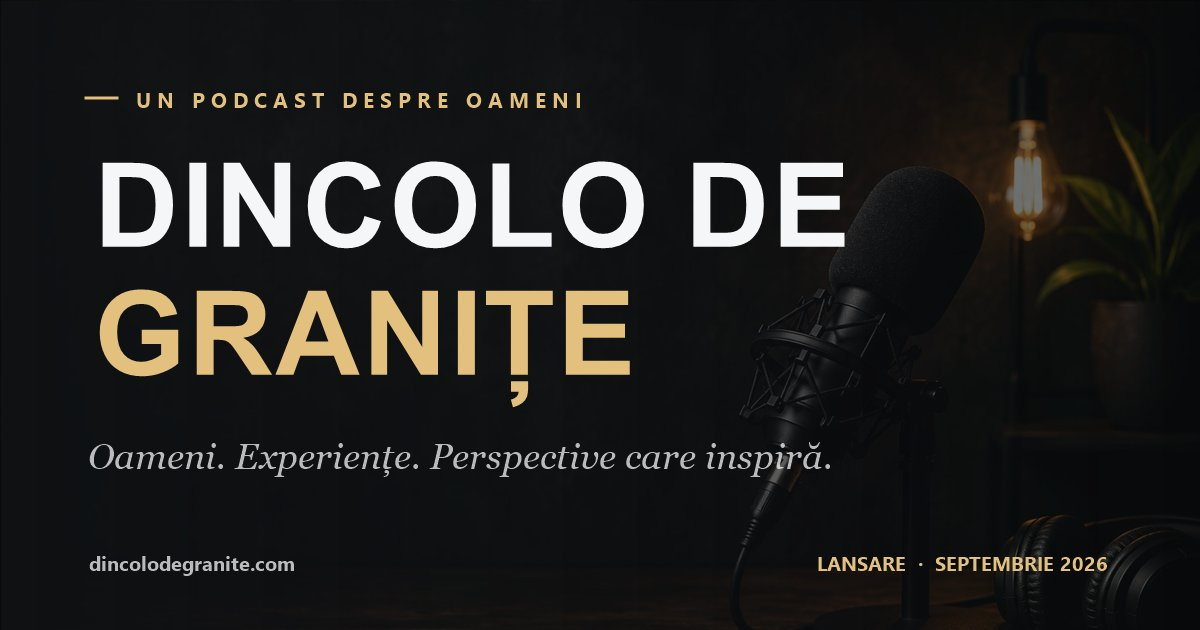
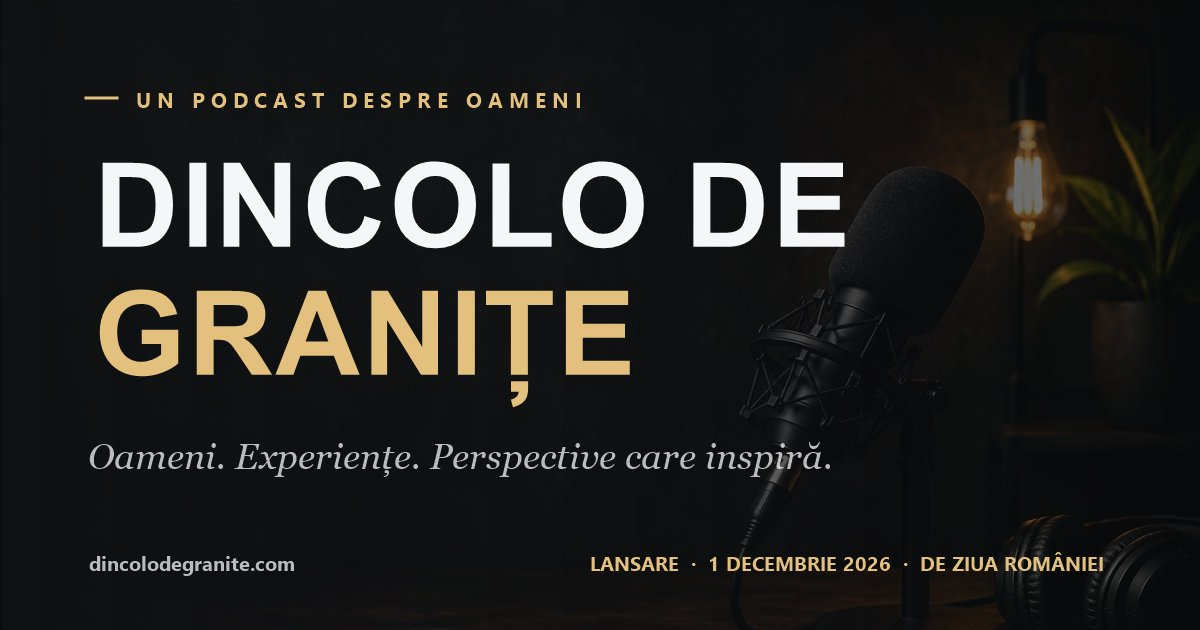
LANSAREA MUTATA PE 1 DECEMBRIE 2026 — DE ZIUA NATIONALA A ROMANIEI
- Toate mentiunile de septembrie 2026 actualizate pe cele 10 pagini (card lansare episoade, formulare newsletter, timeline si FAQ despre, JSON-LD, parteneriate, admin placeholder)
- Accente de Ziua Nationala acolo unde conteaza: cardul de lansare (PRIMUL EPISOD — 1 DECEMBRIE 2026, de Ziua Nationala a Romaniei), timeline-ul gazdei, cardul social contact, parteneriate
- Tabloul: DEC 2026 pe toate rutele
- Countdown: fallback 2026-12-01T00:00:00+00:00 (miezul noptii, ora Londrei — GMT in decembrie); site_settings next_episode_date actualizat in DB — countdown-ul live numara 119 zile spre 1 Decembrie 2026
- despre_spec_lansare in DB: 1 Decembrie 2026
- Media kit v13: lansarea + coordonatele (LANSARE · DE ZIUA ROMANIEI) + FAQ actualizate
- og-banner regenerat: LANSARE · 1 DECEMBRIE 2026 · DE ZIUA ROMANIEI

Changed region(s): [[0.4933, 0.8746, 0.925, 0.9048]]

diff --git a/site/index.html b/site/index.html
@@ -1234,7 +1234,7 @@ document.addEventListener('pointerout', function(e){
         <span data-ep-title="1" class="brd-title" style="font:600 15px var(--font-body);color:#f5f6f7;overflow:hidden;text-overflow:ellipsis;white-space:nowrap" data-i18n="ep_ph1">Construirea unei vieți de la zero</span>
         <span data-ep-desc="1" class="brd-desc" style="font:400 12.5px var(--font-body);color:rgba(245,246,247,.55);overflow:hidden;text-overflow:ellipsis;white-space:nowrap" data-i18n="ep1_desc">Cum se construiește o afacere de la zero într-o țară străină.</span>
       </span>
-      <span class="brd-time" style="flex:none;width:78px;font:600 10.5px 'Courier New',monospace;letter-spacing:.08em;color:rgba(227,192,125,.75);white-space:nowrap">SEP 2026</span>
+      <span class="brd-time" style="flex:none;width:78px;font:600 10.5px 'Courier New',monospace;letter-spacing:.08em;color:rgba(227,192,125,.75);white-space:nowrap">DEC 2026</span>
       <span class="brd-break"></span>
       <span class="brd-status-cell" style="flex:none;width:112px;perspective:400px">
         <span data-ep-status="1" style="display:inline-block;padding:6px 14px;border-radius:8px;border:1px solid rgba(201,162,90,.45);background:rgba(201,162,90,.1);font:700 10px var(--font-body);letter-spacing:.14em;color:var(--accent-light);animation:boardFlip 7s ease-in-out infinite;animation-delay:1s" data-i18n="board_in_studio">FILMARE PROGRAMATĂ</span>
@@ -1254,7 +1254,7 @@ document.addEventListener('pointerout', function(e){
         <span data-ep-title="2" class="brd-title" style="font:600 15px var(--font-body);color:#f5f6f7;overflow:hidden;text-overflow:ellipsis;white-space:nowrap" data-i18n="ep_ph2">Drumul din spatele profesiei</span>
         <span data-ep-desc="2" class="brd-desc" style="font:400 12.5px var(--font-body);color:rgba(245,246,247,.55);overflow:hidden;text-overflow:ellipsis;white-space:nowrap" data-i18n="ep2_desc">Drumul unui profesionist român spre vârful industriei lui.</span>
       </span>
-      <span class="brd-time" style="flex:none;width:78px;font:600 10.5px 'Courier New',monospace;letter-spacing:.08em;color:rgba(227,192,125,.75);white-space:nowrap">SEP 2026</span>
+      <span class="brd-time" style="flex:none;width:78px;font:600 10.5px 'Courier New',monospace;letter-spacing:.08em;color:rgba(227,192,125,.75);white-space:nowrap">DEC 2026</span>
       <span class="brd-break"></span>
       <span class="brd-status-cell" style="flex:none;width:112px;perspective:400px">
         <span data-ep-status="2" style="display:inline-block;padding:6px 14px;border-radius:8px;border:1px solid rgba(201,162,90,.45);background:rgba(201,162,90,.1);font:700 10px var(--font-body);letter-spacing:.14em;color:var(--accent-light);animation:boardFlip 7s ease-in-out infinite;animation-delay:3.4s" data-i18n="coming_soon">ÎN PREGĂTIRE</span>
@@ -1274,7 +1274,7 @@ document.addEventListener('pointerout', function(e){
         <span data-ep-title="3" class="brd-title" style="font:600 15px var(--font-body);color:#f5f6f7;overflow:hidden;text-overflow:ellipsis;white-space:nowrap" data-i18n="ep_ph3">Alegeri, risc și reinventare</span>
         <span data-ep-desc="3" class="brd-desc" style="font:400 12.5px var(--font-body);color:rgba(245,246,247,.55);overflow:hidden;text-overflow:ellipsis;white-space:nowrap" data-i18n="ep3_desc">O poveste neobișnuită despre risc, muncă și noroc provocat.</span>
       </span>
-      <span class="brd-time" style="flex:none;width:78px;font:600 10.5px 'Courier New',monospace;letter-spacing:.08em;color:rgba(227,192,125,.75);white-space:nowrap">SEP 2026</span>
+      <span class="brd-time" style="flex:none;width:78px;font:600 10.5px 'Courier New',monospace;letter-spacing:.08em;color:rgba(227,192,125,.75);white-space:nowrap">DEC 2026</span>
       <span class="brd-break"></span>
       <span class="brd-status-cell" style="flex:none;width:112px;perspective:400px">
         <span data-ep-status="3" style="display:inline-block;padding:6px 14px;border-radius:8px;border:1px solid rgba(201,162,90,.45);background:rgba(201,162,90,.1);font:700 10px var(--font-body);letter-spacing:.14em;color:var(--accent-light);animation:boardFlip 7s ease-in-out infinite;animation-delay:5.8s" data-i18n="coming_soon">ÎN PREGĂTIRE</span>

diff --git a/site/despre.html b/site/despre.html
@@ -43,7 +43,7 @@
 {"@type":"Question","name":"Cât durează filmarea unui episod?","acceptedAnswer":{"@type":"Answer","text":"Între 60 și 90 de minute: o conversație relaxată, fără scenariu rigid și fără grabă."}},
 {"@type":"Question","name":"Costă ceva participarea?","acceptedAnswer":{"@type":"Answer","text":"Nu. Participarea ca invitat este gratuită."}},
 {"@type":"Question","name":"În ce limbă sunt episoadele?","acceptedAnswer":{"@type":"Answer","text":"În limba română, iar toate episoadele au subtitrare."}},
-{"@type":"Question","name":"Când se lansează primele episoade?","acceptedAnswer":{"@type":"Answer","text":"În septembrie 2026, pe YouTube."}},
+{"@type":"Question","name":"Când se lansează primele episoade?","acceptedAnswer":{"@type":"Answer","text":"Pe 1 decembrie 2026, de Ziua Națională a României, pe YouTube."}},
 {"@type":"Question","name":"Când apare episodul meu după filmare?","acceptedAnswer":{"@type":"Answer","text":"Nu imediat. Episoadele se înregistrează în avans și se publică programat, în serie, pentru continuitate. Invitatul primește data exactă înainte de lansare."}}
 ]}</script>
 <script defer src="/_vercel/insights/script.js"></script>
@@ -285,7 +285,7 @@
       </div>
       <div class="tl-item rv">
         <div class="tl-l">LANSAREA</div>
-        <div class="tl-t">Septembrie 2026</div>
+        <div class="tl-t">1 Decembrie 2026 — de Ziua României</div>
         <p class="tl-p"><a href="episoade.html">Primele episoade</a>, în studio și pe Zoom, cu <a href="invitati.html">români din toată lumea</a>.</p>
       </div>
     </div>
@@ -503,7 +503,7 @@
           <div class="spec-cell">
             <span class="icon-chip" style="width:28px;height:28px"><svg width="14" height="14" viewBox="0 0 24 24" fill="none" stroke="currentColor" stroke-width="1.8" stroke-linecap="round" stroke-linejoin="round"><rect x="3" y="5" width="18" height="16" rx="3"></rect><path d="M3 10h18"></path><path d="M8 3v4"></path><path d="M16 3v4"></path></svg></span>
             <div class="spec-l">LANSARE</div>
-            <div class="spec-v" data-set="despre_spec_lansare">Septembrie 2026</div>
+            <div class="spec-v" data-set="despre_spec_lansare">1 Decembrie 2026</div>
           </div>
         </div>
       </div>
@@ -562,7 +562,7 @@
       </details>
       <details class="faq-i">
         <summary>Când se lansează primele episoade?</summary>
-        <p>În septembrie 2026, pe YouTube. Până atunci poți urmări <a href="episoade.html">pagina de episoade</a> sau te poți abona la newsletter de pe prima pagină.</p>
+        <p>Pe 1 decembrie 2026, de Ziua Națională a României, pe YouTube. Până atunci poți urmări <a href="episoade.html">pagina de episoade</a> sau te poți abona la newsletter de pe prima pagină.</p>
       </details>
       <details class="faq-i">
         <summary>Când apare episodul meu după filmare?</summary>
@@ -607,7 +607,7 @@
       <div style="position:relative;display:flex;align-items:center;justify-content:space-between;gap:20px;flex-wrap:wrap">
         <div style="max-width:440px">
           <div style="font:var(--head-weight) 24px var(--font-head);letter-spacing:.04em;color:#f5f6f7;margin-bottom:5px">PRIMEȘTE FIECARE <span class="gold-last">EPISOD</span></div>
-          <p class="muted" style="margin:0;font-size:13.5px;color:rgba(245,246,247,.62)">Lasă-ne adresa ta de email și te anunțăm imediat ce publicăm un nou episod. Primul episod apare în septembrie 2026.</p>
+          <p class="muted" style="margin:0;font-size:13.5px;color:rgba(245,246,247,.62)">Lasă-ne adresa ta de email și te anunțăm imediat ce publicăm un nou episod. Primul episod apare pe 1 decembrie 2026.</p>
         </div>
         <form data-nl-form novalidate style="flex:1 1 300px;max-width:440px">
           <div class="nlx-cap">

diff --git a/site/episoade.html b/site/episoade.html
@@ -154,8 +154,8 @@
     </div>
 
     <div id="ep-empty" class="gcard" style="display:none;text-align:center;padding:clamp(36px,7vw,60px)">
-      <div style="font:var(--head-weight) 26px var(--font-head);letter-spacing:.08em;color:var(--accent-light);margin-bottom:8px">PRIMUL EPISOD — SEPTEMBRIE 2026</div>
-      <p style="max-width:52ch;margin:0 auto 20px">Primul episod este în pregătire. Urmărește canalul de YouTube sau lasă-ți adresa de email mai jos, iar noi te anunțăm imediat ce este publicat.</p>
+      <div style="font:var(--head-weight) 26px var(--font-head);letter-spacing:.08em;color:var(--accent-light);margin-bottom:8px">PRIMUL EPISOD — 1 DECEMBRIE 2026</div>
+      <p style="max-width:52ch;margin:0 auto 20px">Primul episod se lansează pe 1 decembrie 2026, de Ziua Națională a României. Urmărește canalul de YouTube sau lasă-ți adresa de email mai jos, iar noi te anunțăm imediat ce este publicat.</p>
       <div style="display:flex;gap:10px;justify-content:center;flex-wrap:wrap">
         <a class="btn btn-gold" href="https://www.youtube.com/@dincolo.de.granite?sub_confirmation=1" target="_blank" rel="noopener">Abonează-te pe YouTube</a>
         <a class="btn btn-ghost" href="#abonare">Anunță-mă la lansare</a>
@@ -220,7 +220,7 @@
       <div style="position:relative;display:flex;align-items:center;justify-content:space-between;gap:20px;flex-wrap:wrap">
         <div id="abonare" style="max-width:440px;scroll-margin-top:132px">
           <div style="font:var(--head-weight) 24px var(--font-head);letter-spacing:.04em;color:#f5f6f7;margin-bottom:5px">PRIMEȘTE FIECARE <span class="gold-last">EPISOD</span></div>
-          <p class="muted" style="margin:0;font-size:13.5px;color:rgba(245,246,247,.62)">Lasă-ne adresa ta de email și te anunțăm imediat ce publicăm un nou episod. Primul episod apare în septembrie 2026.</p>
+          <p class="muted" style="margin:0;font-size:13.5px;color:rgba(245,246,247,.62)">Lasă-ne adresa ta de email și te anunțăm imediat ce publicăm un nou episod. Primul episod apare pe 1 decembrie 2026.</p>
         </div>
         <form data-nl-form novalidate style="flex:1 1 300px;max-width:440px">
           <div class="nlx-cap">

diff --git a/site/parteneriate.html b/site/parteneriate.html
@@ -179,7 +179,7 @@
     <div class="gcard ovh rv" style="margin-top:18px;position:relative">
       <div class="dsp-glow"></div>
       <div style="position:relative">
-        <p style="margin:0 0 16px;font-size:15px;line-height:1.7;max-width:74ch">Vorbim cu români din România și din întreaga lume, prin interviuri documentate în două formate: portret și expertiză. Lansăm în septembrie 2026, iar datele de audiență vor fi comunicate transparent, pe măsură ce devin disponibile.</p>
+        <p style="margin:0 0 16px;font-size:15px;line-height:1.7;max-width:74ch">Vorbim cu români din România și din întreaga lume, prin interviuri documentate în două formate: portret și expertiză. Lansăm pe 1 decembrie 2026, de Ziua Națională a României, iar datele de audiență vor fi comunicate transparent, pe măsură ce devin disponibile.</p>
         <div style="display:flex;gap:8px;flex-wrap:wrap">
         <span style="padding:7px 15px;border-radius:999px;border:1px solid rgba(201,162,90,.3);background:rgba(201,162,90,.07);font:600 13px var(--font-body);letter-spacing:.03em;color:rgba(245,246,247,.82);white-space:nowrap">Medicină și sănătate</span>
         <span style="padding:7px 15px;border-radius:999px;border:1px solid rgba(201,162,90,.3);background:rgba(201,162,90,.07);font:600 13px var(--font-body);letter-spacing:.03em;color:rgba(245,246,247,.82);white-space:nowrap">Psihologie</span>
@@ -300,7 +300,7 @@
       </details>
       <details class="faq-i">
         <summary>Aveți deja cifre de audiență?</summary>
-        <p>Lansăm în septembrie 2026, iar datele de audiență vor fi comunicate transparent, pe măsură ce devin disponibile — direct în media kit.</p>
+        <p>Lansăm în decembrie 2026, iar datele de audiență vor fi comunicate transparent, pe măsură ce devin disponibile — direct în media kit.</p>
       </details>
       <details class="faq-i">
         <summary>Cum începe o colaborare?</summary>

diff --git a/site/contact.html b/site/contact.html
@@ -182,7 +182,7 @@
           <a href="#" data-social="social_apple" target="_blank" rel="noopener" class="btn btn-ghost" style="display:none">Apple Podcasts</a>
           <a href="#" data-social="social_spotify" target="_blank" rel="noopener" class="btn btn-ghost" style="display:none">Spotify</a>
         </div>
-        <p class="muted" style="margin:0;font-size:13.5px">Primul episod apare în septembrie 2026. Urmărește-ne și fii printre primii care îl descoperă.</p>
+        <p class="muted" style="margin:0;font-size:13.5px">Primul episod apare pe 1 decembrie 2026, de Ziua Națională a României. Urmărește-ne și fii printre primii care îl descoperă.</p>
       </div>
     </div>
   </section>
@@ -290,7 +290,7 @@
       <div style="position:relative;display:flex;align-items:center;justify-content:space-between;gap:20px;flex-wrap:wrap">
         <div style="max-width:440px">
           <div style="font:var(--head-weight) 21px var(--font-head);letter-spacing:.04em;color:#f5f6f7;margin-bottom:5px">PRIMEȘTE FIECARE <span class="gold-last">EPISOD</span></div>
-          <p class="muted" style="margin:0;font-size:13.5px;color:rgba(245,246,247,.62)">Lasă-ne adresa ta de email și te anunțăm imediat ce publicăm un nou episod. Primul episod apare în septembrie 2026.</p>
+          <p class="muted" style="margin:0;font-size:13.5px;color:rgba(245,246,247,.62)">Lasă-ne adresa ta de email și te anunțăm imediat ce publicăm un nou episod. Primul episod apare pe 1 decembrie 2026.</p>
         </div>
         <form data-nl-form novalidate style="flex:1 1 300px;max-width:440px">
           <div class="nlx-cap">

diff --git a/site/admin.html b/site/admin.html
@@ -257,7 +257,7 @@
           <label class="muted" style="font-size:12px">CAMERE<input id="set-despre-spec-camere" type="text" placeholder="Canon Cinema, în studio propriu" style="margin-top:5px"></label>
           <label class="muted" style="font-size:12px">DE ORIUNDE<input id="set-despre-spec-oriunde" type="text" placeholder="Invitați din toată lumea, pe Zoom" style="margin-top:5px"></label>
           <label class="muted" style="font-size:12px">LIMBA<input id="set-despre-spec-limba" type="text" placeholder="Română și engleză, cu subtitrare" style="margin-top:5px"></label>
-          <label class="muted" style="font-size:12px">LANSARE<input id="set-despre-spec-lansare" type="text" placeholder="Septembrie 2026" style="margin-top:5px"></label>
+          <label class="muted" style="font-size:12px">LANSARE<input id="set-despre-spec-lansare" type="text" placeholder="1 Decembrie 2026" style="margin-top:5px"></label>
         </div>
       </div>
       <div style="display:flex;align-items:center;gap:12px;margin-top:20px">

diff --git a/site/invitati.html b/site/invitati.html
@@ -306,7 +306,7 @@
       <div style="position:relative;display:flex;align-items:center;justify-content:space-between;gap:20px;flex-wrap:wrap">
         <div style="max-width:440px">
           <div style="font:var(--head-weight) 24px var(--font-head);letter-spacing:.04em;color:#f5f6f7;margin-bottom:5px">PRIMEȘTE FIECARE <span class="gold-last">EPISOD</span></div>
-          <p class="muted" style="margin:0;font-size:13.5px;color:rgba(245,246,247,.62)">Lasă-ne adresa ta de email și te anunțăm imediat ce publicăm un nou episod. Primul episod apare în septembrie 2026.</p>
+          <p class="muted" style="margin:0;font-size:13.5px;color:rgba(245,246,247,.62)">Lasă-ne adresa ta de email și te anunțăm imediat ce publicăm un nou episod. Primul episod apare pe 1 decembrie 2026.</p>
         </div>
         <form data-nl-form novalidate style="flex:1 1 300px;max-width:440px">
           <div class="nlx-cap">

diff --git a/site/oameni.html b/site/oameni.html
@@ -175,7 +175,7 @@
       <div style="position:relative;display:flex;align-items:center;justify-content:space-between;gap:20px;flex-wrap:wrap">
         <div style="max-width:440px">
           <div style="font:var(--head-weight) 24px var(--font-head);letter-spacing:.04em;color:#f5f6f7;margin-bottom:5px">PRIMEȘTE FIECARE <span class="gold-last">EPISOD</span></div>
-          <p class="muted" style="margin:0;font-size:13.5px;color:rgba(245,246,247,.62)">Lasă-ne adresa ta de email și te anunțăm imediat ce publicăm un nou episod. Primul episod apare în septembrie 2026.</p>
+          <p class="muted" style="margin:0;font-size:13.5px;color:rgba(245,246,247,.62)">Lasă-ne adresa ta de email și te anunțăm imediat ce publicăm un nou episod. Primul episod apare pe 1 decembrie 2026.</p>
         </div>
         <form data-nl-form novalidate style="flex:1 1 300px;max-width:440px">
           <div class="nlx-cap">

diff --git a/site/enhance.js b/site/enhance.js
@@ -623,7 +623,7 @@ function initMap(){
 /* ── Countdown ─────────────────────────────────────────────────── */
 function initCountdown(){
   var box = document.querySelector('[data-countdown]');
-  var fallback = new Date('2026-09-01T00:00:00+01:00').getTime();
+  var fallback = new Date('2026-12-01T00:00:00+00:00').getTime();
   var d = box.querySelector('[data-count-d]'), h = box.querySelector('[data-count-h]');
   var m = box.querySelector('[data-count-m]'), s = box.querySelector('[data-count-s]');
   function pad(n){ return n < 10 ? '0' + n : String(n); }
